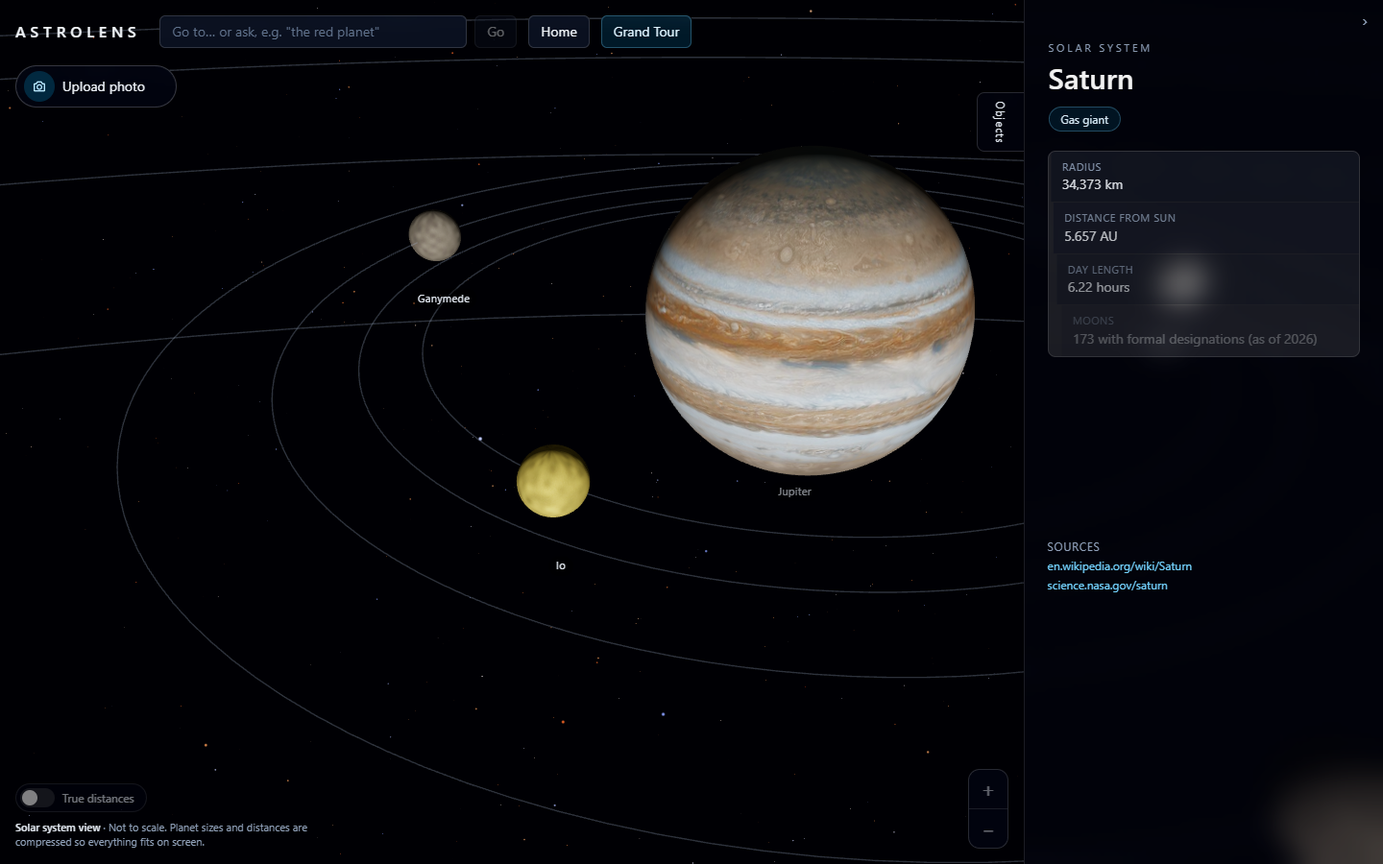
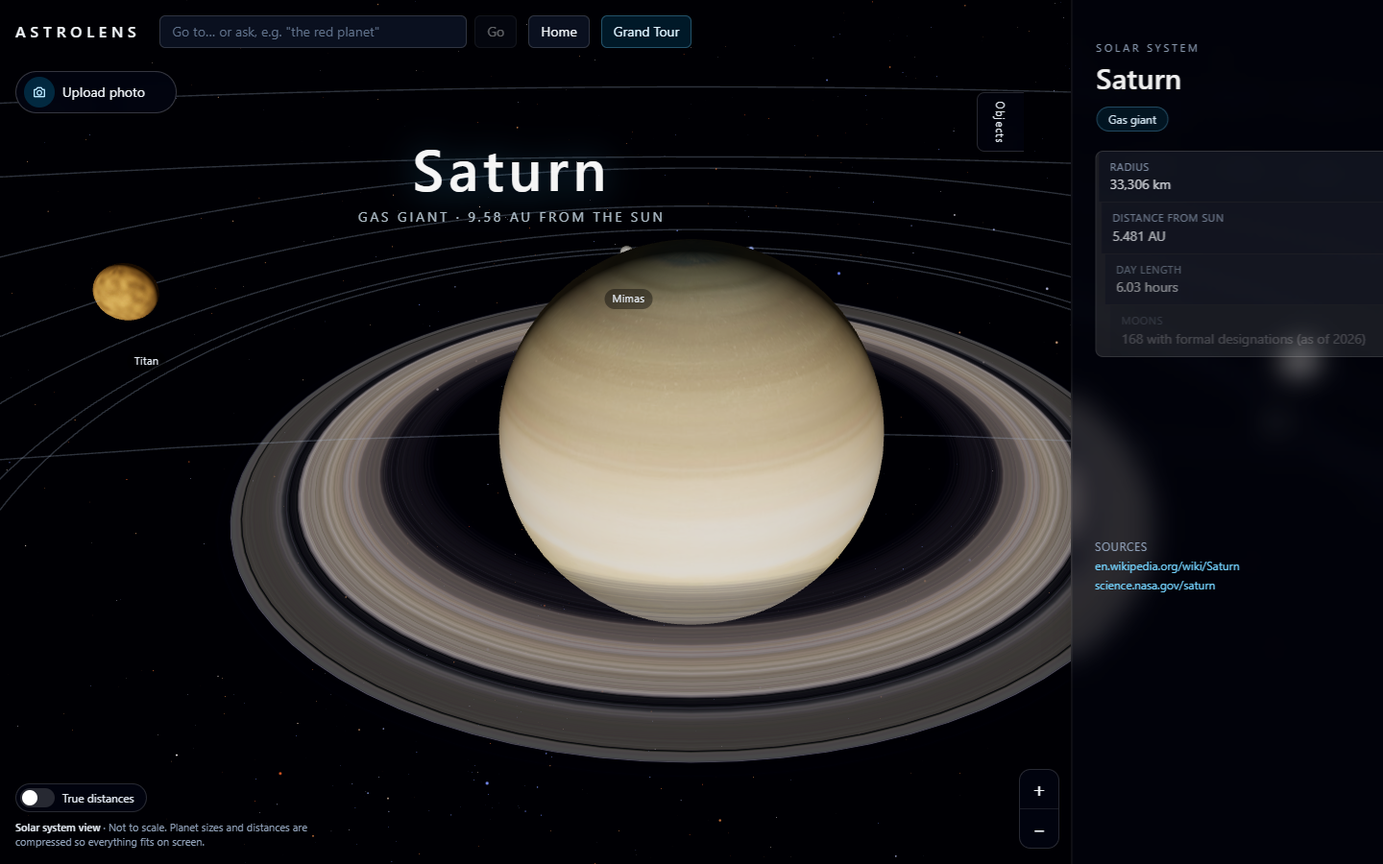
ux: the card stays closed while flying and slides in as the arrival title fades; card intro plays when it opens; drawer pick no longer reopens the old panel early; layout check 18/18; REPORT updated

diff --git a/frontend/src/store.js b/frontend/src/store.js
@@ -25,6 +25,7 @@ export const useStore = create((set, get) => ({
   browserOpen: false, // the right-side object list (drawer). It and the glass panel share the right edge,
   // so only one shows at a time: opening one closes the other.
   panelBeforeBrowser: false, // the panel was open when the drawer opened (closing the drawer brings it back)
+  panelPending: false, // a flight to an object is on its way: its card opens as the arrival title fades (ArrivalTitle.jsx)
   uploadPanelOpen: false, // the translucent upload panel next to the pill
   entered: SKIP_LANDING, // false while the landing page is shown
   trueScale: false, // "True distances": everything at its real distance (scene/universe.js)
@@ -37,17 +38,23 @@ export const useStore = create((set, get) => ({
   tour: NO_TOUR, // the Grand Tour: { active, step } (step = index in TOUR_STOPS)
 
   selectObject: (id) =>
-    set((s) => ({ currentObjectId: id, panelOpen: true, panelView: 'card', flyRequest: s.flyRequest + 1, tour: NO_TOUR, browserOpen: false, cardIntro: true })),
+    set((s) => ({ currentObjectId: id, panelOpen: false, panelPending: true, panelBeforeBrowser: false, panelView: 'card', flyRequest: s.flyRequest + 1, tour: NO_TOUR, browserOpen: false, cardIntro: true })),
   // A guess from the photo's top 3 picked by the user: fly there, and the badge moves with it.
   selectGuess: (id) =>
-    set((s) => ({ currentObjectId: id, panelOpen: true, panelView: 'card', flyRequest: s.flyRequest + 1, tour: NO_TOUR, browserOpen: false, cardIntro: true, photoObjectId: id })),
+    set((s) => ({ currentObjectId: id, panelOpen: false, panelPending: true, panelBeforeBrowser: false, panelView: 'card', flyRequest: s.flyRequest + 1, tour: NO_TOUR, browserOpen: false, cardIntro: true, photoObjectId: id })),
   goHome: () =>
-    set((s) => ({ currentObjectId: null, panelOpen: false, panelView: 'card', flyRequest: s.flyRequest + 1, tour: NO_TOUR })),
+    set((s) => ({ currentObjectId: null, panelOpen: false, panelPending: false, panelView: 'card', flyRequest: s.flyRequest + 1, tour: NO_TOUR })),
+  // The arrival title is fading: open the card that was waiting (behind the Objects drawer if that is open).
+  revealPanel: () =>
+    set((s) =>
+      !s.panelPending ? {} : s.browserOpen ? { panelPending: false, panelBeforeBrowser: true } : { panelPending: false, panelOpen: true },
+    ),
   setHoverId: (hoverId) => set({ hoverId }),
   // Grand Tour: fly to stop `step` with the panel closed (the caption tells the story instead).
   tourTo: (step) =>
     set((s) => ({
       tour: { active: true, step },
+      panelPending: false,
       currentObjectId: TOUR_STOPS[step],
       panelOpen: false,
       panelView: 'card',
@@ -59,7 +66,7 @@ export const useStore = create((set, get) => ({
   stopTour: (showCard = false) => set((s) => ({ tour: NO_TOUR, ...(showCard && s.currentObjectId ? { panelOpen: true, panelView: 'card' } : {}) })),
   setMode: (mode) => set({ mode }),
   setFlying: (isFlying) => set({ isFlying }),
-  setPanelOpen: (panelOpen) => set(panelOpen ? { panelOpen, browserOpen: false } : { panelOpen }),
+  setPanelOpen: (panelOpen) => set(panelOpen ? { panelOpen, browserOpen: false, panelPending: false } : { panelOpen }),
   setPanelView: (panelView) => set({ panelView }),
   setUpload: (patch) => set((s) => ({ upload: { ...s.upload, ...patch } })),
   // Remove the uploaded photo and everything that came from it (guesses, badge, heatmap).
@@ -76,7 +83,7 @@ export const useStore = create((set, get) => ({
     }))
   },
   setDraft: (key, text) => set((s) => ({ drafts: { ...s.drafts, [key]: text } })),
-  openChat: () => set({ panelOpen: true, panelView: 'chat', browserOpen: false }),
+  openChat: () => set({ panelOpen: true, panelView: 'chat', browserOpen: false, panelPending: false }),
   setBrowserOpen: (open) =>
     set((s) =>
       open
@@ -130,7 +137,7 @@ export const useStore = create((set, get) => ({
     const history = before.filter((m) => !m.error).slice(-HISTORY_SENT).map(({ role, content }) => ({ role, content }))
     const add = (msg) => set((s) => ({ chats: { ...s.chats, [key]: [...(s.chats[key] ?? []), msg] } }))
     add({ role: 'user', content: question })
-    set({ chatPending: true, panelOpen: true, panelView: 'chat', browserOpen: false })
+    set({ chatPending: true, panelOpen: true, panelView: 'chat', browserOpen: false, panelPending: false })
     try {
       const r = await askChat(question, currentObjectId, history)
       add({ role: 'assistant', content: r.answer, citations: r.citations, refused: r.refused, latencyMs: r.latency_ms })
@@ -150,7 +157,8 @@ export const useStore = create((set, get) => ({
         : {
             prediction,
             currentObjectId: prediction.top3[0].id,
-            panelOpen: true,
+            panelOpen: false, // the card opens as the arrival title fades
+            panelPending: true,
             panelView: 'card',
             flyRequest: s.flyRequest + 1,
             tour: NO_TOUR,

diff --git a/frontend/src/panel/BriefCard.jsx b/frontend/src/panel/BriefCard.jsx
@@ -1,4 +1,4 @@
-import { useLayoutEffect, useRef } from 'react'
+import { useEffect, useLayoutEffect, useRef, useState } from 'react'
 import gsap from 'gsap'
 import { useStore } from '../store'
 import { reducedMotion } from '../motion'
@@ -26,17 +26,34 @@ function ConfidenceBadge({ objectId }) {
   )
 }
 
+// The flight whose card has played its intro (kept outside the component, so switching between the
+// card and the chat does not replay it).
+let introPlayedFor = null
+
 /** The short card for one object, built entirely from its objects.json entry. */
 export default function BriefCard({ obj }) {
   const prediction = useStore((s) => s.prediction)
   const cardIntro = useStore((s) => s.cardIntro) // false after a photo result: no slide-in or counting
+  const panelOpen = useStore((s) => s.panelOpen)
+  const flyRequest = useStore((s) => s.flyRequest)
   const setPanelView = useStore((s) => s.setPanelView)
   const ref = useRef(null)
+  const flight = `${obj.id}:${flyRequest}`
+  const [intro, setIntro] = useState(null) // the flight whose intro is playing now
 
-  // Each new object: the card's lines slide in one after another (GSAP stagger = the same animation
-  // started on each element in turn, a fixed delay apart).
+  // The panel stays closed during a flight, so the intro waits until it opens (once per flight).
+  useEffect(() => {
+    if (panelOpen && introPlayedFor !== flight) {
+      introPlayedFor = flight
+      setIntro(flight)
+    }
+  }, [panelOpen, flight])
+  const playing = intro === flight && cardIntro
+
+  // The card's lines slide in one after another (GSAP stagger = the same animation started on each
+  // element in turn, a fixed delay apart).
   useLayoutEffect(() => {
-    if (reducedMotion() || !ref.current || !useStore.getState().cardIntro) return undefined
+    if (!playing || reducedMotion() || !ref.current) return undefined
     const ctx = gsap.context(() => {
       gsap.fromTo(
         '[data-reveal]',
@@ -45,7 +62,7 @@ export default function BriefCard({ obj }) {
       )
     }, ref)
     return () => ctx.revert()
-  }, [obj.id])
+  }, [playing, flight])
 
   return (
     <article ref={ref} data-testid="brief-card" className="flex flex-col gap-5">
@@ -69,7 +86,7 @@ export default function BriefCard({ obj }) {
           <div key={label} data-reveal className="bg-slate-950/50 px-3 py-2">
             <dt className="text-[11px] uppercase tracking-wider text-slate-400">{label}</dt>
             <dd data-testid="fact-value" className="text-sm text-slate-100">
-              <CountUp key={`${obj.id}:${label}`} text={value} animate={cardIntro} />
+              <CountUp key={`${flight}:${label}:${playing}`} text={value} animate={playing} />
             </dd>
           </div>
         ))}

diff --git a/frontend/src/ui/ArrivalTitle.jsx b/frontend/src/ui/ArrivalTitle.jsx
@@ -8,7 +8,8 @@ const HOLD_SECONDS = 1.8 // how long the full title stays before fading out
 
 /**
  * On landing at an object: its name appears letter by letter in large type, then a line such as
- * "Gas giant · 5.2 AU from the Sun" (built from objects.json), then both fade away and leave the card.
+ * "Gas giant · 5.2 AU from the Sun" (built from objects.json), then both fade away; as they fade, the
+ * object's card slides in (the panel stays closed during the flight and the title).
  * Centred in the part of the screen the glass panel does not cover. With "reduce motion" on, the
  * title simply appears and disappears.
  */
@@ -27,8 +28,12 @@ export default function ArrivalTitle() {
   useLayoutEffect(() => {
     if (!shownId || !ref.current) return undefined
     const hide = () => setShownId(null)
+    const reveal = () => useStore.getState().revealPanel() // the card slides in as the title goes
     if (reducedMotion()) {
-      const timer = setTimeout(hide, (HOLD_SECONDS + 1) * 1000)
+      const timer = setTimeout(() => {
+        reveal()
+        hide()
+      }, (HOLD_SECONDS + 1) * 1000)
       return () => clearTimeout(timer)
     }
     const ctx = gsap.context(() => {
@@ -36,7 +41,8 @@ export default function ArrivalTitle() {
         .timeline({ onComplete: hide })
         .fromTo('[data-letter]', { opacity: 0, y: 24 }, { opacity: 1, y: 0, duration: 0.5, ease: 'power3.out', stagger: 0.045 })
         .fromTo('[data-subtitle]', { opacity: 0, y: 10 }, { opacity: 1, y: 0, duration: 0.5, ease: 'power2.out' }, '-=0.2')
-        .to(ref.current, { opacity: 0, y: -12, duration: 0.8, ease: 'power2.in' }, `+=${HOLD_SECONDS}`)
+        .call(reveal, null, `+=${HOLD_SECONDS}`)
+        .to(ref.current, { opacity: 0, y: -12, duration: 0.8, ease: 'power2.in' }, '<')
     }, ref)
     return () => ctx.revert()
   }, [shownId])

diff --git a/frontend/src/panel/GlassPanel.jsx b/frontend/src/panel/GlassPanel.jsx
@@ -10,10 +10,19 @@ import UnknownCard from './UnknownCard'
 export default function GlassPanel() {
   const currentObjectId = useStore((s) => s.currentObjectId)
   const panelOpen = useStore((s) => s.panelOpen)
+  const panelPending = useStore((s) => s.panelPending)
   const panelView = useStore((s) => s.panelView)
   const setPanelOpen = useStore((s) => s.setPanelOpen)
   const prediction = useStore((s) => s.prediction)
   const obj = currentObjectId ? OBJECTS_BY_ID[currentObjectId] : null
+
+  // Safety net: if a card is still waiting 6 s after the camera stopped (no arrival title came), open it.
+  const isFlying = useStore((s) => s.isFlying)
+  useEffect(() => {
+    if (!panelPending || isFlying) return undefined
+    const timer = setTimeout(() => useStore.getState().revealPanel(), 6000)
+    return () => clearTimeout(timer)
+  }, [panelPending, isFlying])
 
   // Escape closes the panel (keyboard users; the "Show" tab brings it back). While the Objects
   // drawer is open, Escape is the drawer's (it closes and the panel comes back).
@@ -58,7 +67,7 @@ export default function GlassPanel() {
           {body()}
         </div>
       </aside>
-      {!panelOpen && (
+      {!panelOpen && !panelPending && ( // no "Show card" tab while the card is on its way
         <button
           type="button"
           onClick={() => setPanelOpen(true)}

diff --git a/REPORT.md b/REPORT.md
@@ -61,7 +61,7 @@ The page is static files on Vercel. The server, with the trained model, the text
 - **Placing deep-space objects from sky coordinates.** With right ascension α, declination δ (in radians) and distance d: x = d·cos δ·cos α, y = d·cos δ·sin α, z = d·sin δ (x points to α = 0h, z to the north celestial pole). Three.js uses y as "up", so the page uses (x, z, −y). Code: `frontend/src/scene/scale.js` (`skyToScene`).
 - **Display distance.** Real distances run from 444 ly (Pleiades) to 24,100 ly (M13), so the page uses d = 4 × √(light-years): Pleiades 84 units, M13 621 units. Directions are exact; only distances are compressed. The **True distances** switch (below) shows the real ones.
 - **True distances (added after Phase 5).** With the switch on, every object sits at its real distance: moons round their planets (Phobos 9,375 km from Mars), planets round the Sun (Neptune 30 AU), nebulae and clusters out to M13 at 24,100 light-years. That is about 14 powers of ten, too much for one fixed set of 3D coordinates (the graphics card uses 32-bit numbers). So real positions are kept in AU in JavaScript's 64-bit numbers, and every frame the scene is drawn relative to the object being looked at (the focus) and scaled by the zoom: the camera always sits 50 drawn units from the focus, and the zoom says how many AU that is. Zooming out 10 times shrinks the drawn world 10 times. Code: `frontend/src/scene/universe.js`.
-- **Interface motion (added after Phase 5).** Long flights (a switch between the solar-system and deep-space views, or a true-distance flight across at least four powers of ten) go to warp: stars stretch into streaks, the view widens by 8 degrees and the screen edges darken, then everything snaps back on arrival. On landing, the object's name appears letter by letter with a line built from `objects.json` ("Gas giant · 5.2 AU from the Sun"). The card's numbers count up and its lines slide in one after another. In the True distances view a thin power-of-ten bar in the bottom-left corner, under the camera readout, shows the zoom (how far the camera is from what it looks at, about 150 km to 40,000 light-years), with dots and chips for the Moon, Neptune, the Pleiades and M13 that fly there when clicked. With the browser's or phone's "reduce motion" setting on, the warp, the letter animation, the counting and the sliding are skipped. Code: `frontend/src/scene/warp.js`, `StarField.jsx`, `CameraRig.jsx`, `frontend/src/ui/ArrivalTitle.jsx`, `DistanceScale.jsx`, `WarpVignette.jsx`, `frontend/src/panel/CountUp.jsx`.
+- **Interface motion (added after Phase 5).** Long flights (a switch between the solar-system and deep-space views, or a true-distance flight across at least four powers of ten) go to warp: stars stretch into streaks, the view widens by 8 degrees and the screen edges darken, then everything snaps back on arrival. The glass panel stays closed during a flight; on landing, the object's name appears letter by letter with a line built from `objects.json` ("Gas giant · 5.2 AU from the Sun"), and the card slides in as the name fades. The card's numbers count up and its lines slide in one after another. In the True distances view a thin power-of-ten bar in the bottom-left corner, under the camera readout, shows the zoom (how far the camera is from what it looks at, about 150 km to 40,000 light-years), with dots and chips for the Moon, Neptune, the Pleiades and M13 that fly there when clicked. With the browser's or phone's "reduce motion" setting on, the warp, the letter animation, the counting and the sliding are skipped. Code: `frontend/src/scene/warp.js`, `StarField.jsx`, `CameraRig.jsx`, `frontend/src/ui/ArrivalTitle.jsx`, `DistanceScale.jsx`, `WarpVignette.jsx`, `frontend/src/panel/CountUp.jsx`.
 - **More interface motion (added after Phase 5).** With a mouse, a ring cursor trails the pointer, grows over buttons and says "Fly to Jupiter" over a planet, moon, nebula or cluster; a few main buttons pull gently towards the pointer. A "Grand Tour" button flies Sun → Earth → Moon → Jupiter → Saturn → Orion Nebula → Pleiades with the panel closed, showing the first sentence of each summary from `objects.json` for 7 seconds at each stop. While a photo is classified a scan line sweeps over it, then the heatmap fades in and out once and the top 3 guesses slide up. The loading screen counts to 100% while the title appears letter by letter; behind the landing page the camera waits 2.6 times farther out and dives in when a door is chosen. Chat answers appear word by word, citation numbers pop in, and the sources follow. The custom cursor is off on touch screens; with "reduce motion" on, the cursor, camera pull-back and dive, typing and scan sweep are all skipped. Code: `frontend/src/ui/CustomCursor.jsx`, `TourCaption.jsx`, `LoadingScreen.jsx`, `frontend/src/tour.js`, `frontend/src/upload/UploadZone.jsx`, `frontend/src/panel/ChatPanel.jsx`, `frontend/src/scene/CameraRig.jsx`.
   - **Zoom without a limit.** The mouse wheel and new **+ / −** buttons (factor 3 per press) change the zoom from about 150 km to about 40,000 light-years. The readout shows the camera's distance from the Sun in km, AU or light-years.
   - **One space.** Planets and deep-space objects share one space, so zooming out from Jupiter passes the planets' orbits, then the Sun shrinks to a dot labelled "Solar System (you are here)", and the Pleiades and Beehive come into view; past 3,000 AU the page switches to deep-space mode.
@@ -506,6 +506,7 @@ recall@k = share of questions with a gold chunk in the first k results; MRR@10 =
 | After 5 | Match badge only on the object the photo is about (it used to show on any object among the photo's guesses, e.g. "15% match" on Earth after a cat photo) | Done (bug fix) |
 | After 5 | After a photo result the card appears without counting or sliding (the scan, heatmap and flight already animate) | Done |
 | After 5 | Phone layout: two-row top bar, upload pill and Objects tab below it, the card as a bottom sheet with the scene shifted up so the object stays visible, the tour caption with the corner controls out of its way | Done |
+| After 5 | The glass panel stays closed while flying to an object and slides in as the arrival title fades (a waiting card also opens by itself 6 s after the camera stops, if no title came); the card's counting and sliding start when it opens | Done |
 | After 5 | + / − buttons step aside for the Objects drawer; in True distances, planet and moon names that would pile up on what they orbit are hidden | Done (bug fix) |
 
 **Phase 1 scene check.** Source: `ml/results/phase1_scene_check.json`, written by `node scripts/check-phase1.mjs` (run from `frontend/`). The script opened the page in Microsoft Edge 157 (headless) on the author's laptop, which used the real GPU (NVIDIA GeForce RTX 4060 Laptop GPU, through Direct3D 11). The viewport was 1440 × 900. The script picked each object in the dropdown, alternating Solar System and deep space, so 19 of the 20 flights were mode switches.
@@ -579,7 +580,7 @@ The first − presses read slightly less than 5.20 AU because zooming out from J
 | Short flight (Mars → Jupiter, 1.2 s) | warp 0, view not widened |
 | Arrival title at the Orion Nebula | "Orion Nebula", "Diffuse emission nebula · 1,267 light-years away"; gone again after the hold |
 | Arrival line for all 36 objects, compared with the same rule written separately in the check script | 36 of 36 match |
-| Saturn card 0.25 s after choosing it / once settled | "32,944 km", "5.421 AU", "5.96 hours", "166 …" (still counting) / exactly as in `objects.json` |
+| Saturn card 0.25 s after it opens / once settled | "32,022 km", "5.270 AU", "5.80 hours", "161 …" (still counting) / exactly as in `objects.json` |
 | Distance scale in the normal view | hidden |
 | Distance bar knob vs the zoom, at Saturn / after 4 presses of − | 22.68% vs 22.68% (465,856 km) / 35.08% vs 35.08% (0.25 AU) |
 | Where the distance bar sits, panel open / closed | bottom-left corner both times: 16–304 px from the left, 717–816 px down the 900 px screen |
@@ -593,22 +594,23 @@ The first − presses read slightly less than 5.20 AU because zooming out from J
 
 | Check | Measured |
 | --- | --- |
-| Loading counter / title | 0 → 100% in 13 steps, never going down; visible letters counted 0, 1, 2, 3, 4, 5, 9 as it was sampled; loading screen gone after 1.1 s |
+| Loading counter / title | 0 → 100% in 13 steps, never going down; visible letters counted 0, 1, 2, 3, 4, 5, 6, 8, 9 as it was sampled; loading screen gone after 1.1 s |
 | Camera behind the landing page / after "Explore the sky" | 308.19 units from its target (2.6 × the home 118.53) / back to 118.53, with warp 1 on the way |
 | Cursor | system pointer hidden; ring "idle" → "link" over Home; Home pulled 6.4 px right and 2.5 px down, back to 0 after leaving; "Fly to Jupiter" over Jupiter |
-| Grand Tour | Sun, Earth, Moon, Jupiter, Saturn, Orion Nebula, Pleiades in order; all 7 captions match the first sentence of the summary; panel closed throughout; the first stop moved on by itself after 7 s; Finish opened the Pleiades card; Escape and a user flight both ended it |
-| Scanning | the line's top moved 100 → 207 px in 0.6 s; heatmap reached 0.9 opacity at 0.40 s and returned to 0 (the toggle's heatmap stayed at 0); guesses "Saturn 78%", "Jupiter 12%", "Uranus 5%": the first fully shown at 0.46 s, the third at 0.66 s |
-| Typed chat answer (133 characters) | 8 characters at 0.04 s, 50 at 0.62 s, all 133 at 1.88 s; first citation number appeared while typing; sources shown only after typing |
+| Grand Tour | Sun, Earth, Moon, Jupiter, Saturn, Orion Nebula, Pleiades in order; all 7 captions match the first sentence of the summary; panel closed throughout; the first stop moved on by itself after 6.9 s; Finish opened the Pleiades card; Escape and a user flight both ended it |
+| Scanning | the line's top moved 100 → 214 px in 0.6 s; heatmap reached 0.9 opacity at 0.38 s and returned to 0 (the toggle's heatmap stayed at 0); guesses "Saturn 78%", "Jupiter 12%", "Uranus 5%": the first fully shown at 0.44 s, the third at 0.63 s |
+| Typed chat answer (133 characters) | 8 characters at 0.05 s, 49 at 0.63 s, all 133 at 1.88 s; first citation number appeared while typing; sources shown only after typing |
 | Reduce motion on | no custom cursor (system pointer), camera not pulled back, warp 0, answer complete at once, scan line still |
 | Browser console errors | 0 |
 
-**Layout check (after Phase 5).** Source: `ml/results/layout_check.json`, written by `frontend/scripts/check-layout.mjs` (Playwright, Microsoft Edge, 1440 × 900, then a 390 × 844 touch phone); 15 of 15 checks passed, screenshots in `ml/results/layout_screens/`. Before the fix, the Objects drawer opened on top of the chat while typing and stayed on top of the card after an object was picked.
+**Layout check (after Phase 5).** Source: `ml/results/layout_check.json`, written by `frontend/scripts/check-layout.mjs` (Playwright, Microsoft Edge, 1440 × 900, then a 390 × 844 touch phone); 18 of 18 checks passed, screenshots in `ml/results/layout_screens/`. Before the fix, the Objects drawer opened on top of the chat while typing and stayed on top of the card after an object was picked.
 
 | Step | Drawer | Panel | Overlap |
 | --- | --- | --- | --- |
 | Typing in Saturn's chat ("How thick are the rin") | closed | chat | 0 px |
 | Objects drawer opened | open | tucked away (draft kept) | 0 px |
-| Jupiter picked in the drawer | closed | Jupiter's card | 0 px |
+| Jupiter picked in the drawer, 0.7 s later (still flying) | closed | closed: the card waits for the flight and the title | 0 px |
+| … once the arrival title fades | closed | Jupiter's card | 0 px |
 | Chat, drawer opened, Escape | closed | chat back | 0 px |
 | Drawer open, then the chat opened | closed | chat | 0 px |
 | Back to Saturn's chat | closed | chat, draft still "How thick are the rin" | 0 px |
@@ -622,7 +624,8 @@ Fixes from the hands-on review (same file; the /classify answer is faked in the 
 | + / − buttons with the Objects drawer open | no overlap; − still clickable |
 | True distances, Earth, zoomed out 10× seven times (zoom −2.47 to 3.53) | no two names overlapping at any step |
 | Phone: top bar, upload pill, Objects tab, corner note, zoom buttons | no overlaps; Grand Tour tapped and its caption clear of everything |
-| Phone: card sheet / Saturn | sheet from 354 px (58% of the 844 px screen); Saturn's centre at 177 px, above it |
+| Phone: card sheet / Saturn (after the card opened) | sheet open from 354 px (58% of the 844 px screen); Saturn's centre at 177 px, above it |
+| Flying from the overview to Mars (sampled every 50 ms) | landed at 1.32 s and the title appeared at once; the panel stayed closed throughout the flight and opened at 4.07 s as the title began to fade (title still fully visible); title gone at 4.84 s |
 
 **Table E: time taken per step (deployed, median of 10 runs)**
 
@@ -951,6 +954,7 @@ Fixes from the hands-on review (same file; the /classify answer is faked in the 
 | Nov 19, 2026 | The distance scale became a thin bar in the bottom-left corner, under the camera readout | As a card on the right it hid the middle of the scene (half of Earth at both 1440 and 1366 px wide); the corner was mostly empty |
 | Nov 19, 2026 | The match badge shows only for the photo's object (its top guess, or a guess the user picks) | A badge on every object among the guesses suggested the photo matched them |
 | Nov 19, 2026 | On phones the card is a bottom sheet over 58% of the screen, and the picture slides up 29% (the camera's view offset) | A full-screen card hid the object it describes; moving the picture, not the camera, leaves flights and zoom untouched |
+| Nov 19, 2026 | The card opens as the arrival title starts to fade, not when the object is chosen | Asked for by the author: the panel took a quarter of the screen during the flight and competed with the title. Opening as the title fades makes the two hand over instead of overlapping |
 
 ## Progress log
 
@@ -1017,3 +1021,7 @@ Fixes from the hands-on review (same file; the /classify answer is faked in the 
   - Every feature tried with the real server, classifier and chat at 1440 × 900, 1366 × 768 and a 390 × 844 phone; findings: the distance card covered the scene, a stale match badge, too many animations at once after a photo, and a crowded phone layout.
   - Fixed: distance bar moved to the corner; badge only on the photo's object; calmer card after a photo; phone layout; zoom buttons beside the drawer; no piled-up names.
   - Checks: layout 15 of 15 (`ml/results/layout_check.json`), interface 20 of 20 and 25 of 25; pytest 62 passed.
+- **Nov 19, 2026 (after Phase 5: card after the title):**
+  - At the author's request the glass panel stays closed while flying to an object and slides in as the arrival title fades; the card's counting and sliding now start when it opens (before, they played while it was hidden).
+  - Found and fixed on the way: picking an object in the Objects drawer brought the old panel straight back (the drawer restoring the panel it had covered).
+  - Checks: layout 18 of 18, interface 20 of 20 and 25 of 25; the Phase 3 check against the real server still passes (its saved results left as they were); pytest 62 passed.
